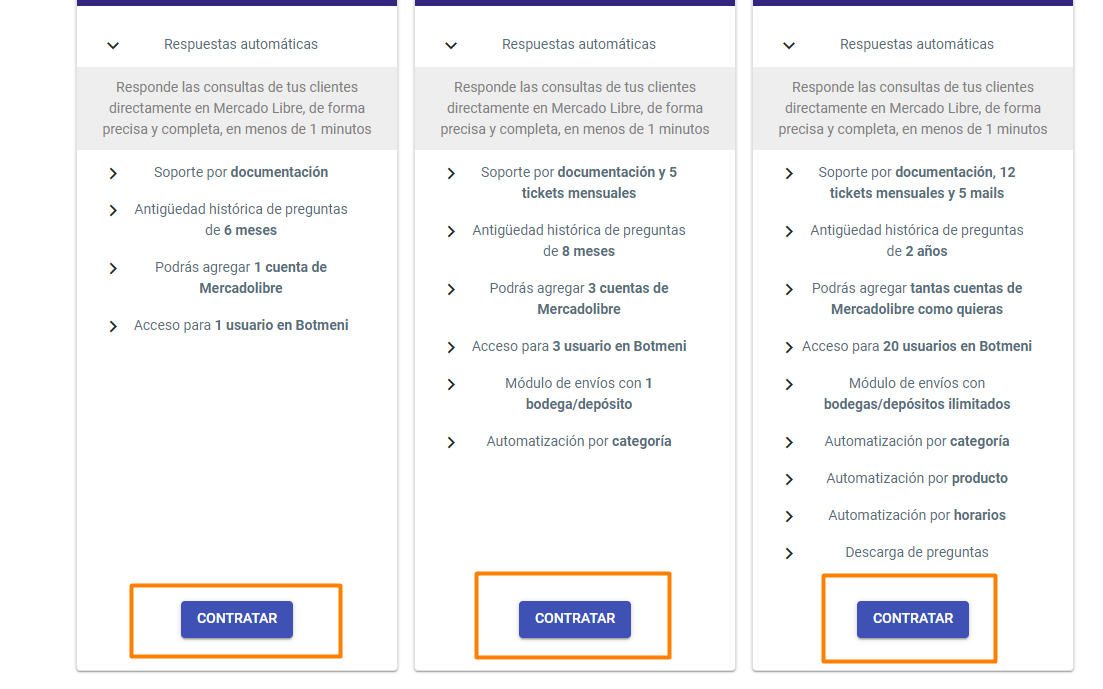
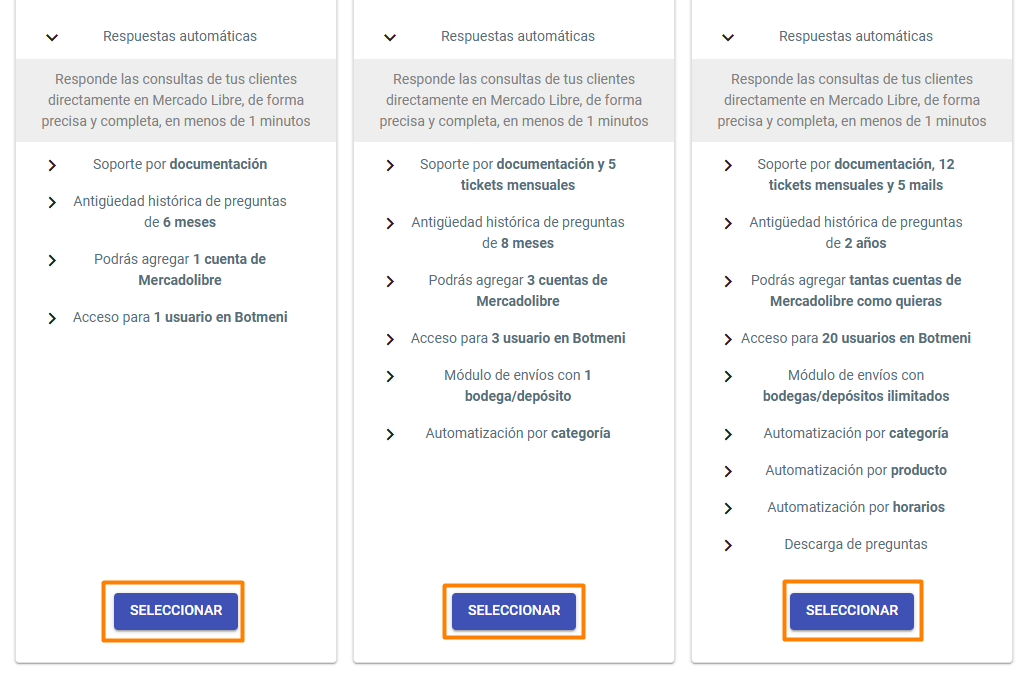
25 11 6

diff --git a/content/docs/administra_tu_cuenta/Tu_Perfil/Contratar_primer_plan.md b/content/docs/administra_tu_cuenta/Tu_Perfil/Contratar_primer_plan.md
@@ -26,15 +26,17 @@ Para contratar un plan por primera vez, luego de registrar tu cuenta:
 7. Ingresa los campos del formulario y presiona ENVIAR. Nuestro equipo de ventas se contactará para brindarte el asesoramiento que necesites.
 {{< figure width="560px" height="400px" src="/images/general/preguntasmasgrandes1.png" >}}
 
-8. Cuando hayas seleccionado la cantidad de preguntas, presiona el botón SELECCIONAR en el plan al que deseas adherirte. 
+8. Una vez elegidos el país y la cantidad de preguntas, se detallará el precio correspondiente en cada uno de los planes disponibles. Puedes modificar la cantidad de preguntas para conocer los precios para cada combinación de cantidad de preguntas y tipo de plan, y así identificar aquella que se ajusta mejor a las necesidades de tu tienda. 
+{{< figure width="560px" height="400px" src="/images/general/inicio6.png" >}}
+9. Cuando hayas definido la cantidad de preguntas, presiona el botón SELECCIONAR en el plan al que deseas adherirte. 
 {{< figure width="560px" height="400px" src="/images/general/inicio7.png" >}}
-9. Se presentará la pantalla de contratación. En la misma estarán detallados en la parte superior los beneficios y funciones del plan que has seleccionado.
+10. Se presentará la pantalla de contratación. En la misma estarán detallados en la parte superior los beneficios y funciones del plan que has seleccionado.
 {{< figure width="630px" height="450px" src="/images/general/inicio11.png" >}}
-10. Si cuentas con un cupón de descuento, ingrésalo en el campo Cupón de descuento y presiona APLICAR.
+11. Si cuentas con un cupón de descuento, ingrésalo en el campo Cupón de descuento y presiona APLICAR.
 {{< figure width="630px" height="450px" src="/images/general/cupon_botmeni.png" >}}
-11. Ingresa los datos de la tarjeta que vincularás a la suscripción (número de tarjeta, fecha de vencimiento, código de seguridad CVC y país de emisión) y presiona AGREGAR TARJETA.
+12. Ingresa los datos de la tarjeta que vincularás a la suscripción (número de tarjeta, fecha de vencimiento, código de seguridad CVC y país de emisión) y presiona AGREGAR TARJETA.
 {{< figure width="630px" height="450px" src="/images/general/agregar_tarjeta_primer_plan.png" >}}
-12. Haz clic en CONFIRMAR para crear la suscripción. Se desplegará un mensaje de confirmación de Suscripción Completada.
+13. Haz clic en CONFIRMAR para crear la suscripción. Se desplegará un mensaje de confirmación de Suscripción Completada.
 {{< figure width="630px" height="450px" src="/images/general/registrarme_confirmar_tarjeta.png" >}}
 ¡Los primeros 15 días son gratis!. Por lo tanto, la fecha de pago figurará recién a los 15 días a partir de que se has confirmado esta primera suscripción de tu cuenta. <br></br>
 Llegará un mail a la casilla de correo asociada a la cuenta de Botmeni, confirmando la suscripción al plan seleccionado.<br></br>

diff --git a/content/docs/Personaliza_tu_cuenta_de_botmeni/Cuentas_de_Mercado_Libre/Cuentas_ML.md b/content/docs/Personaliza_tu_cuenta_de_botmeni/Cuentas_de_Mercado_Libre/Cuentas_ML.md
@@ -12,20 +12,20 @@ toc: true
 Dentro de la plataforma puedes gestionar las cuentas de Mercado Libre asociadas a tu cuenta de Botmeni. 
 Para conocer la cantidad de cuentas que tienes disponible vincular según el plan de suscripción, puedes ingresar a la sección Aplicaciones de la plataforma, siguiendo los pasos descriptos en la guía en la sección [Funcionalidades y beneficios incluidos en cada plan](../../Suscripcíon_y_Pagos/Tu_Suscripcion/Conocer_beneficios_planes.md).<br></br>
 ### Vincular una nueva cuenta de Mercado Libre
-Si necesitas asociar una nueva cuenta de Mercado Libre a tu cuenta de Botmeni:
+Si necesitas asociar una cuenta de Mercado Libre a tu cuenta de Botmeni:
 1. Inicia sesión con un usuario con tipo de rol ADMINISTRADOR, en nuestra página de login <https://prod.botmeni.com/login>.
 2. Selecciona el módulo Cuentas del menú.
 {{< figure width="140px" height="100px" src="/images/general/cuentas.png" >}}
 3. Presiona AGREGAR.
 {{< figure width="630px" height="450px" src="/images/general/cuentas2.png" >}}
-3. Selecciona el país al que pertenece la cuenta que deseas asociar y presiona CONFIRMAR.
+4. Selecciona el país al que pertenece la cuenta que deseas asociar y presiona CONFIRMAR.
 {{< figure width="630px" height="450px" src="/images/general/onboarding_3_1.png" >}}
-3. Ingresa el e-mail, teléfono o usuario de la cuenta de Mercado Libre que deseas vincular, y selecciona CONTINUAR.
+5. Ingresa el e-mail, teléfono o usuario de la cuenta de Mercado Libre que deseas vincular, y selecciona CONTINUAR.
 {{< figure width="630px" height="450px" src="/images/general/onboarding_3_2.png" >}}
-4. Ingresa la contraseña de Mercado Libre correspondiente a dicha cuenta y presionar INICIAR SESIÓN.
-5. Selecciona la casilla para autorizar a botmeni a conectarse a Mercado libre si estás de acuerdo, y presiona CONTINUAR.
+6. Ingresa la contraseña de Mercado Libre correspondiente a dicha cuenta y presionar INICIAR SESIÓN.
+7. Selecciona la casilla para autorizar a botmeni a conectarse a Mercado libre si estás de acuerdo, y presiona CONTINUAR.
 {{< figure width="630px" height="450px" src="/images/general/onboarding_3_4_1.png" >}}
-6. Se desplegará una nueva pantalla, lee la descripción y presiona AUTORIZAR ESTA APLICACIÓN para autorizar a Botmeni.
+8. Se desplegará una nueva pantalla, lee la descripción y presiona AUTORIZAR ESTA APLICACIÓN para autorizar a Botmeni.
 {{< figure width="630px" height="450px" src="/images/general/onboarding_3_5_1.png" >}}
 Al visualizar nuevamente la pantalla, la misma mostrará el número de la nueva cuenta de Mercado Libre que quedó vinculada.<br></br>
 Si la nueva cuenta recién asociada no figura en la pantalla de Botmeni, presiona el botón ACTUALIZAR.

diff --git a/content/docs/Suscripcíon_y_Pagos/Tu_Suscripcion/modificar_plan.md b/content/docs/Suscripcíon_y_Pagos/Tu_Suscripcion/modificar_plan.md
@@ -17,11 +17,11 @@ Si deseas modificar el plan que tienes contratado:
 {{< figure width="280px" height="200px" src="/images/general/aplicaciones.png" >}}
 3. Selecciona la cantidad de preguntas que deseas contratar. 
 {{< figure width="700px" height="500px" src="/images/general/cotizar_preguntas.png" >}}
-4. El plan contratado está resaltado con la leyenda: Plan actual.Presiona CONTRATAR en el nuevo plan al que quieres suscribirte.
-{{< figure width="700px" height="500px" src="/images/general/contratar_plan.png" >}}
+4. El plan contratado está resaltado con la leyenda: Plan actual.Presiona SELECCIONAR en el nuevo plan al que quieres suscribirte.
+{{< figure width="700px" height="500px" src="/images/general/CONTRATAR1.png" >}}
 5. Se desplegará una nueva pantalla. En la misma se detallan en primer lugar las características del plan a contratar. A continuación, si corresponde, se listarán las modificaciones que se aplicarán en las funcionalidades disponibles, debido al cambio de plan. Por ejemplo, si actualmente estuviera contratado el plan Empresarial y se está cambiando al plan Profesional, en la pantalla se advertirán los cambios que se aplicarán en las funcionalidades de tu cuenta, como se muestra en la imagen a continuación.
 {{< figure width="630px" height="450px" src="/images/general/disminucion_plan.png" >}}
-6. Si tienes un cupón de descuento, ingresa el código y presiona ASOCIAR.
+6. Si tienes un cupón de descuento, ingresa el código y presiona APLICAR.
 {{< figure width="630px" height="450px" src="/images/general/cupon_botmeni.png" >}}
 7. Si el sistema lo requiere selecciona las cuentas de Mercado Libre que deseas desvincular (esto será necesario sólo en casos en que el nuevo plan tenga permitido vincular un número menor de cuentas de Mercado Libre a las que tienes actualmente vinculadas).
 8. Selecciona la tarjeta que vincularás a la suscripción (puede ser la misma que tienes registrada para la suscripción actual o puedes modificarla).

diff --git a/content/docs/Suscripcíon_y_Pagos/Tu_Suscripcion/suscripcion_cancelada.md b/content/docs/Suscripcíon_y_Pagos/Tu_Suscripcion/suscripcion_cancelada.md
@@ -17,8 +17,8 @@ En caso de que tu suscripción se encuentra cancelada, y deseas volver a adherir
 {{< figure width="280px" height="200px" src="/images/general/aplicaciones.png" >}}
 4. Selecciona la cantidad de preguntas que deseas contratar. 
 {{< figure width="700px" height="500px" src="/images/general/contratar_plan3.png" >}}
-5. Presiona CONTRATAR en el plan al que quieres suscribirte.
-{{< figure width="700px" height="500px" src="/images/general/registrarme_contratar.png" >}}
+5. Presiona SELECCIONAR en el plan al que quieres suscribirte.
+{{< figure width="700px" height="500px" src="/images/general/CONTRATAR2.png" >}}
 5. Se desplegará la pantalla de contratación. En la misma se detallan en primer lugar las características del plan.
 6. Si tienes un cupón de descuento, ingresa el código y presiona APLICAR.
 {{< figure width="630px" height="450px" src="/images/general/cupon_botmeni.png" >}}
@@ -28,3 +28,5 @@ En caso de que tu suscripción se encuentra cancelada, y deseas volver a adherir
 {{< figure width="630px" height="450px" src="/images/general/seleciona_tarjeta2.png" >}}
 
 Llegará un mail a la casilla de correo asociada a la cuenta de Botmeni, confirmando la suscripción al plan seleccionado.<br></br>
+Una vez que hayas confirmado la nueva suscripción, te recomendamos que verifiques en la sección Cuentas las cuentas de Mercado Libre vinculadas a tu cuenta de Botmeni. En la sección [Cuentas de Mercado Libre vinculadas a Botmeni](../../Personaliza_tu_cuenta_de_botmeni/Cuentas_de_Mercado_Libre/Cuentas_ML.md) están detallados los pasos tanto para conocer las cuentas vinculadas, como para vincularlas en caso de ser necesario.<br></br>
+<br></br>

diff --git a/content/docs/Suscripcíon_y_Pagos/Tu_Suscripcion/Renovar_anticipadamente_plan.md b/content/docs/Suscripcíon_y_Pagos/Tu_Suscripcion/Renovar_anticipadamente_plan.md
@@ -19,7 +19,7 @@ Para renovar el plan:
 {{< figure width="280px" height="200px" src="/images/general/aplicaciones.png" >}}
 4. Selecciona la cantidad de preguntas que deseas contratar (verás señalada la cantidad actualmente contratada). Puedes seleccionar la misma cantidad o una nueva
 {{< figure width="700px" height="500px" src="/images/general/preguntas_actuales.png" >}}
-4. El plan contratado está resaltado con la leyenda: Plan actual. Presiona CONTRATAR.
+4. El plan contratado está resaltado con la leyenda: Plan actual. Presiona SELECCIONAR.
 {{< figure width="700px" height="500px" src="/images/general/contratar_plan.png" >}}
 5. Se deslpegará la pantalla de contratación, con las características del plan a contratar descriptas en la parte superior.
 6. Si tienes un cupón de descuento, ingresa el código y presiona APLICAR.

diff --git a/content/docs/Suscripcíon_y_Pagos/Tu_Suscripcion/Retomar_suscripcion.md b/content/docs/Suscripcíon_y_Pagos/Tu_Suscripcion/Retomar_suscripcion.md
@@ -27,3 +27,5 @@ Cuando todas las suscripciones de tu cuenta se encuentran Canceladas, y deseas v
 {{< figure width="630px" height="450px" src="/images/general/seleciona_tarjeta2.png" >}}
 
 Llegará un mail a la casilla de correo asociada a la cuenta de Botmeni, confirmando la suscripción al plan seleccionado.<br></br>
+Una vez que hayas confirmado la nueva suscripción, te recomendamos que verifiques en la sección Cuentas las cuentas de Mercado Libre vinculadas a tu cuenta de Botmeni. En la sección [Cuentas de Mercado Libre vinculadas a Botmeni](../../Personaliza_tu_cuenta_de_botmeni/Cuentas_de_Mercado_Libre/Cuentas_ML.md) están detallados los pasos tanto para conocer las cuentas vinculadas, como para vincularlas en caso de ser necesario.<br></br>
+<br></br>

diff --git a/content/docs/Suscripcíon_y_Pagos/Tu_Suscripcion/Modificar_cantidad_contratada.md b/content/docs/Suscripcíon_y_Pagos/Tu_Suscripcion/Modificar_cantidad_contratada.md
@@ -19,7 +19,7 @@ Si deseas modificar la cantidad de preguntas que tienes contratada:
 {{< figure width="280px" height="200px" src="/images/general/aplicaciones.png" >}}
 3. Selecciona la nueva cantidad de preguntas que deseas contratar. El plan contratado está resaltado con la leyenda: Plan actual.
 {{< figure width="700px" height="500px" src="/images/general/cotizar_preguntas.png" >}}
-4. Presiona CONTRATAR. Se desplegará una nueva pantalla.
+4. Presiona SELECCIONAR. Se desplegará una nueva pantalla.
 {{< figure width="700px" height="500px" src="/images/general/contratar4.png" >}}
 5. Si tienes un cupón de descuento, ingresa el código y presiona APLICAR.
 {{< figure width="630px" height="450px" src="/images/general/cupon_botmeni.png" >}}
